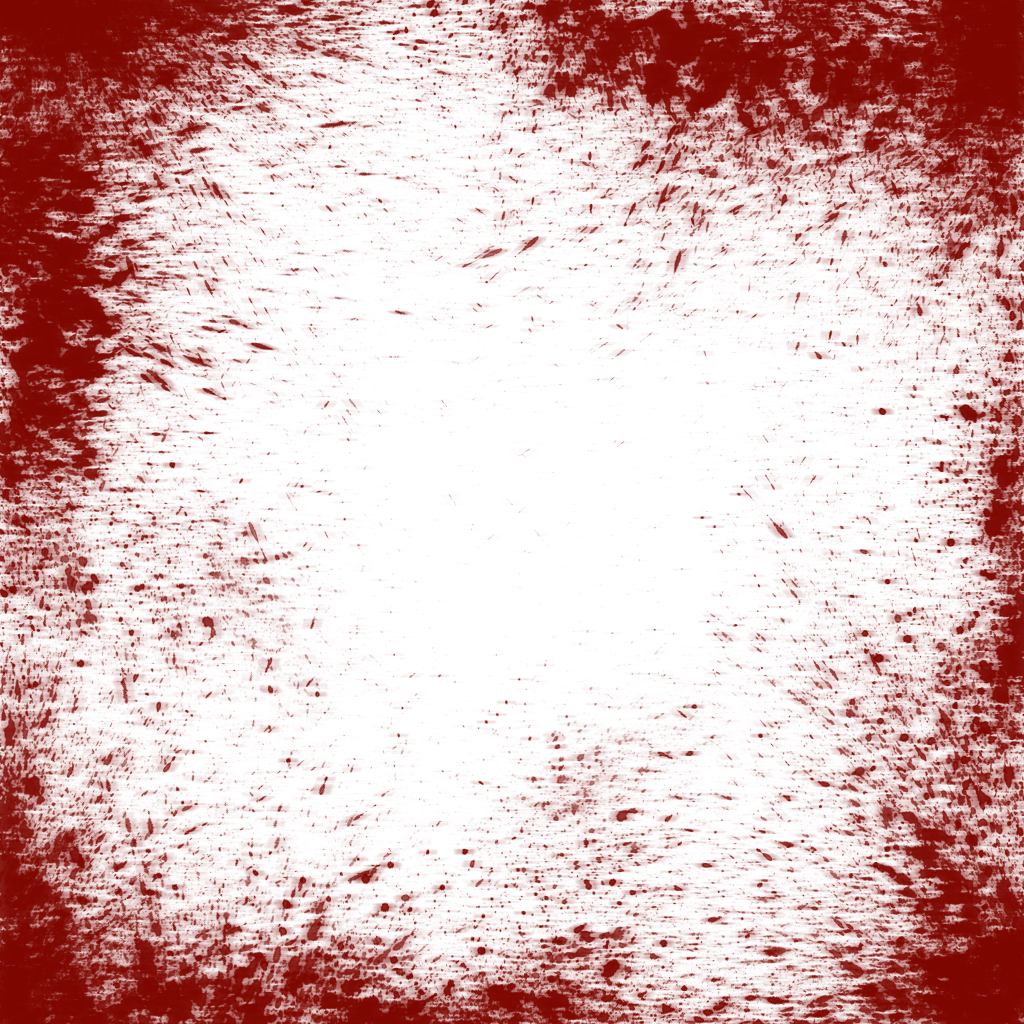
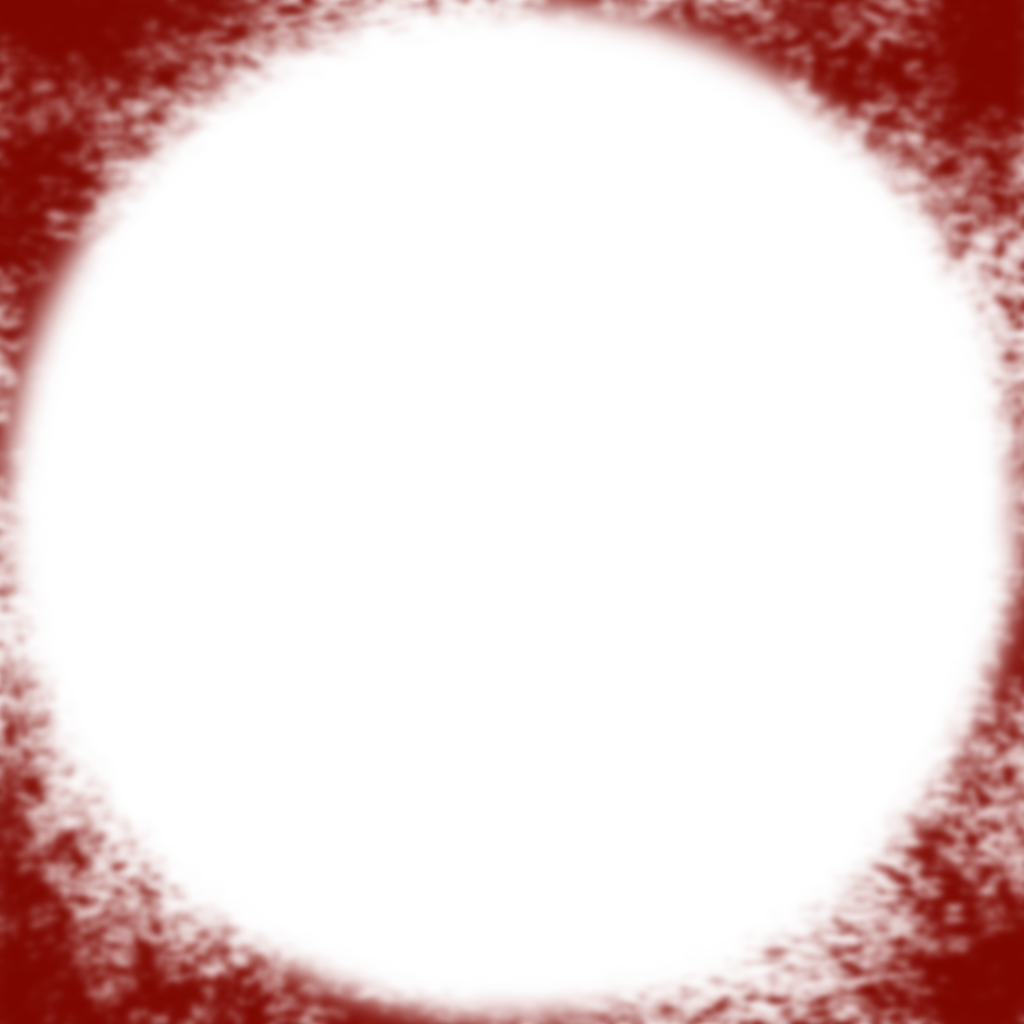
Blur & distortion effect when running out of oxygen, damage overlay texture is shown when vitality is below 10%

diff --git a/Barotrauma/BarotraumaClient/Source/Screens/GameScreen.cs b/Barotrauma/BarotraumaClient/Source/Screens/GameScreen.cs
@@ -19,8 +19,9 @@ namespace Barotrauma
         private Texture2D damageStencil;
 
         public float BlurStrength;
-        public float DistortStrength;
-        
+        public float DistortStrength;        
+        private Texture2D distortTexture;
+
         public GameScreen(GraphicsDevice graphics, ContentManager content)
         {
             cam = new Camera();
@@ -30,8 +31,7 @@ namespace Barotrauma
             renderTarget = new RenderTarget2D(graphics, GameMain.GraphicsWidth, GameMain.GraphicsHeight, false, SurfaceFormat.Color, DepthFormat.None, 0, RenderTargetUsage.PreserveContents);
             renderTargetWater = new RenderTarget2D(graphics, GameMain.GraphicsWidth, GameMain.GraphicsHeight);
             renderTargetFinal = new RenderTarget2D(graphics, GameMain.GraphicsWidth, GameMain.GraphicsHeight, false, SurfaceFormat.Color, DepthFormat.None);
-
-
+            
 #if LINUX
             var blurEffect = content.Load<Effect>("blurshader_opengl");
             damageEffect = content.Load<Effect>("damageshader_opengl");
@@ -39,11 +39,12 @@ namespace Barotrauma
             var blurEffect = content.Load<Effect>("blurshader");
             damageEffect = content.Load<Effect>("damageshader");
 #endif
-
             damageStencil = TextureLoader.FromFile("Content/Map/walldamage.png");
             damageEffect.Parameters["xStencil"].SetValue(damageStencil);
             damageEffect.Parameters["aMultiplier"].SetValue(50.0f);
             damageEffect.Parameters["cMultiplier"].SetValue(200.0f);
+            
+            distortTexture = TextureLoader.FromFile("Content/distortnormals.png");
 
             lightBlur = new BlurEffect(blurEffect, 0.001f, 0.001f);
         }
@@ -245,7 +246,7 @@ namespace Barotrauma
                 //convert the los color to HLS and make sure the luminance of the color is always the same regardless
                 //of the ambient light color and the luminance of the damage overlight color
                 float r = Character.Controlled?.CharacterHealth == null ? 
-                    0.0f : Math.Min(Character.Controlled.CharacterHealth.DamageOverLayTimer * 0.5f, 0.5f);
+                    0.0f : Math.Min(Character.Controlled.CharacterHealth.DamageOverlayTimer * 0.5f, 0.5f);
                 Vector3 losColorHls = Color.Lerp(GameMain.LightManager.AmbientLight, Color.Red, r).RgbToHLS();
                 losColorHls.Y = 0.1f;
                 Color losColor = ToolBox.HLSToRGB(losColorHls);
@@ -254,11 +255,23 @@ namespace Barotrauma
                 spriteBatch.Draw(renderTargetBackground, new Rectangle(0, 0, spriteBatch.GraphicsDevice.Viewport.Width, spriteBatch.GraphicsDevice.Viewport.Height), losColor);
                 spriteBatch.End();                
             }
-			graphics.SetRenderTarget(null);
+            graphics.SetRenderTarget(null);
+
+            if (Character.Controlled != null)
+            {
+                BlurStrength = Character.Controlled.BlurStrength * 0.005f;
+                DistortStrength = Character.Controlled.DistortStrength * 0.5f;
+            }
+            else
+            {
+                BlurStrength = 0.0f;
+                DistortStrength = 0.0f;
+            }
+
             if (BlurStrength > 0.0f || DistortStrength > 0.0f)
             {
                 WaterRenderer.Instance.WaterEffect.CurrentTechnique = WaterRenderer.Instance.WaterEffect.Techniques["WaterShaderPostProcess"];
-                WaterRenderer.Instance.WaterEffect.Parameters["xUvOffset"].SetValue(Vector2.Zero);
+                WaterRenderer.Instance.WaterEffect.Parameters["xUvOffset"].SetValue(WaterRenderer.Instance.WavePos * 0.001f);
                 WaterRenderer.Instance.WaterEffect.Parameters["xTexture"].SetValue(renderTargetFinal);
                 WaterRenderer.Instance.WaterEffect.Parameters["xWaveWidth"].SetValue(DistortStrength);
                 WaterRenderer.Instance.WaterEffect.Parameters["xWaveHeight"].SetValue(DistortStrength);
@@ -266,7 +279,7 @@ namespace Barotrauma
                 WaterRenderer.Instance.WaterEffect.CurrentTechnique.Passes[0].Apply();
 
                 spriteBatch.Begin(SpriteSortMode.Deferred, BlendState.Opaque, SamplerState.PointClamp, DepthStencilState.None, null, WaterRenderer.Instance.WaterEffect, null);
-			    spriteBatch.Draw(WaterRenderer.Instance.WaterTexture, new Rectangle(0, 0, GameMain.GraphicsWidth, GameMain.GraphicsHeight), Color.White);
+			    spriteBatch.Draw(distortTexture, new Rectangle(0, 0, GameMain.GraphicsWidth, GameMain.GraphicsHeight), Color.White);
 			    spriteBatch.End();
             }
             else

diff --git a/Barotrauma/BarotraumaClient/Source/Characters/CharacterHealth.cs b/Barotrauma/BarotraumaClient/Source/Characters/CharacterHealth.cs
@@ -33,7 +33,9 @@ namespace Barotrauma
         private int highlightedLimbIndex = -1;
         private int selectedLimbIndex = -1;
 
-        public float DamageOverLayTimer
+        private float distortTimer;
+
+        public float DamageOverlayTimer
         {
             get { return damageOverlayTimer; }
         }
@@ -143,6 +145,34 @@ namespace Barotrauma
         {
             if (damageOverlayTimer > 0.0f) damageOverlayTimer -= deltaTime;
 
+            float noiseStrength = 0.0f;
+            float distortSpeed = 0.0f;
+            
+            if (character.IsUnconscious)
+            {
+                noiseStrength = 1.0f;
+                distortSpeed = 1.0f;
+            }
+            else if (OxygenAmount < 100.0f)
+            {
+                noiseStrength = MathHelper.Lerp(0.5f, 1.0f, 1.0f - vitality / MaxVitality);
+                distortSpeed = (noiseStrength + 1.0f);
+                distortSpeed *= distortSpeed * distortSpeed * distortSpeed;
+            }
+
+            if (noiseStrength > 0.0f)
+            {
+                distortTimer = (distortTimer + deltaTime * distortSpeed) % MathHelper.TwoPi;
+                character.BlurStrength = (float)(Math.Sin(distortTimer) + 1.5f) * 0.25f * noiseStrength;
+                character.DistortStrength = (float)(Math.Sin(distortTimer) + 1.0f) * 0.1f * noiseStrength;
+            }
+            else
+            {
+                character.BlurStrength = 0.0f;
+                character.DistortStrength = 0.0f;
+                distortTimer = 0.0f;
+            }
+
             if (PlayerInput.KeyHit(Keys.H))
             {
                 OpenHealthWindow = null;
@@ -194,21 +224,15 @@ namespace Barotrauma
 
         public void DrawHUD(SpriteBatch spriteBatch, Vector2 drawOffset)
         {
-            float noiseAlpha = character.IsUnconscious ? 1.0f : MathHelper.Clamp(1.0f - OxygenAmount / 100.0f, 0.0f, 0.8f);
-
-            if (noiseAlpha > 0.0f)
+            float damageOverlayAlpha = DamageOverlayTimer;
+            if (vitality < MaxVitality * 0.1f)
             {
-                Vector2 noiseOffset = Rand.Vector(noiseOverlay.size.X);
-                noiseOffset.X = Math.Abs(noiseOffset.X);
-                noiseOffset.Y = Math.Abs(noiseOffset.Y);
-                noiseOverlay.DrawTiled(spriteBatch, Vector2.Zero - noiseOffset, 
-                    new Vector2(GameMain.GraphicsWidth, GameMain.GraphicsHeight) + noiseOffset,
-                    Vector2.Zero, Color.White * noiseAlpha);
+                damageOverlayAlpha = Math.Max(1.0f - (vitality / maxVitality * 10.0f), damageOverlayAlpha);
             }
 
-            if (damageOverlayTimer > 0.0f)
+            if (damageOverlayAlpha > 0.0f)
             {
-                damageOverlay.Draw(spriteBatch, Vector2.Zero, Color.White * damageOverlayTimer, Vector2.Zero, 0.0f,
+                damageOverlay.Draw(spriteBatch, Vector2.Zero, Color.White * damageOverlayAlpha, Vector2.Zero, 0.0f,
                     new Vector2(GameMain.GraphicsWidth / damageOverlay.size.X, GameMain.GraphicsHeight / damageOverlay.size.Y));
             }
 

diff --git a/Barotrauma/BarotraumaClient/Source/Characters/Character.cs b/Barotrauma/BarotraumaClient/Source/Characters/Character.cs
@@ -46,6 +46,20 @@ namespace Barotrauma
             get { return hudProgressBars; }
         }
 
+        private float blurStrength;
+        public float BlurStrength
+        {
+            get { return blurStrength; }
+            set { blurStrength = MathHelper.Clamp(value, 0.0f, 1.0f); }
+        }
+
+        private float distortStrength;
+        public float DistortStrength
+        {
+            get { return distortStrength; }
+            set { distortStrength = MathHelper.Clamp(value, 0.0f, 1.0f); }
+        }
+
         partial void InitProjSpecific(XDocument doc)
         {
             soundInterval = doc.Root.GetAttributeFloat("soundinterval", 10.0f);
